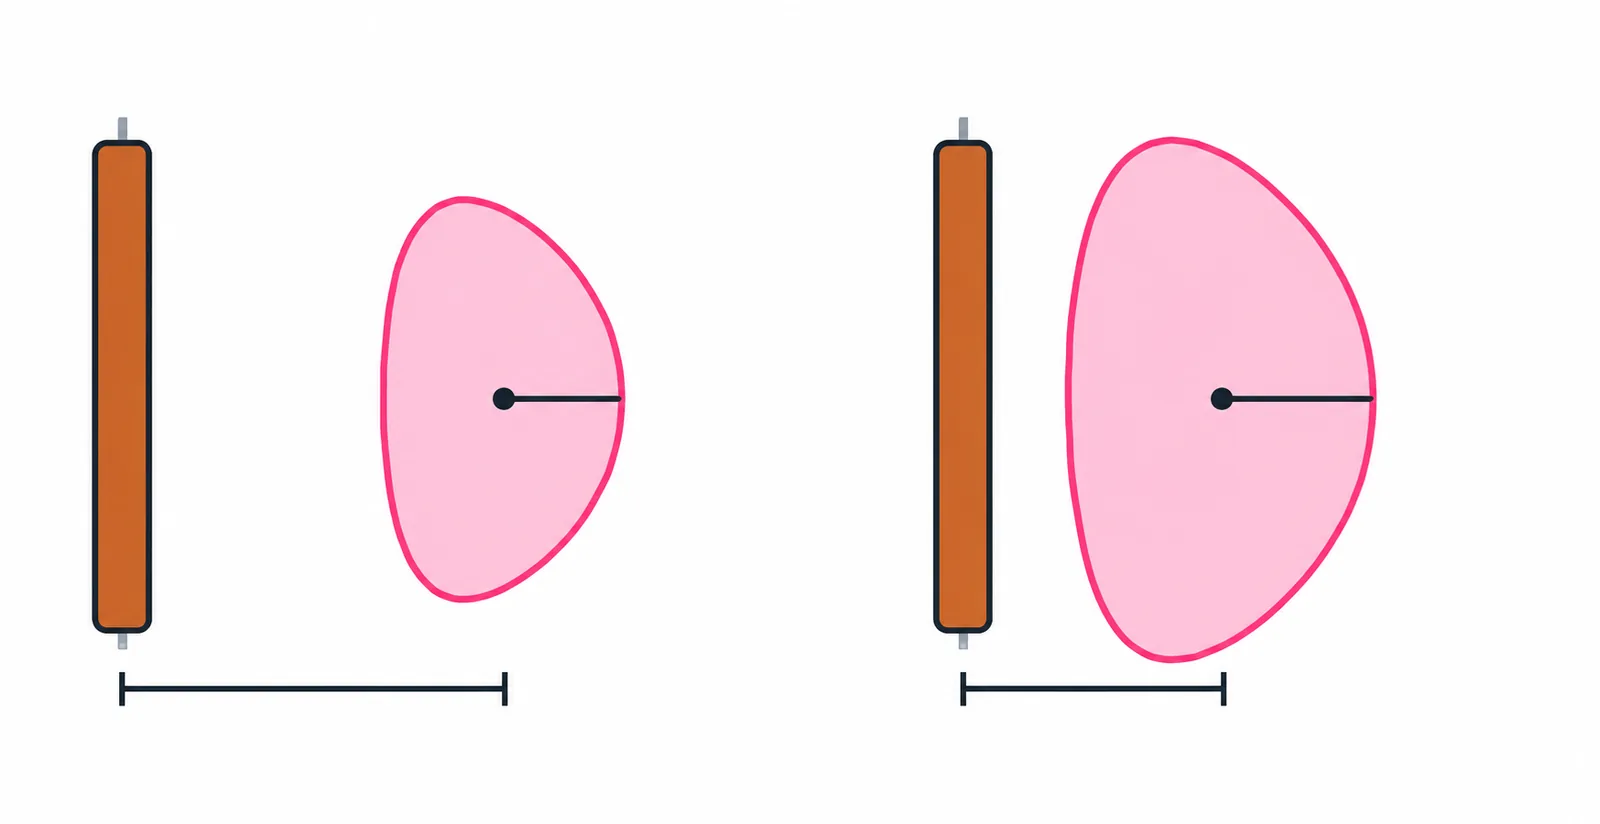
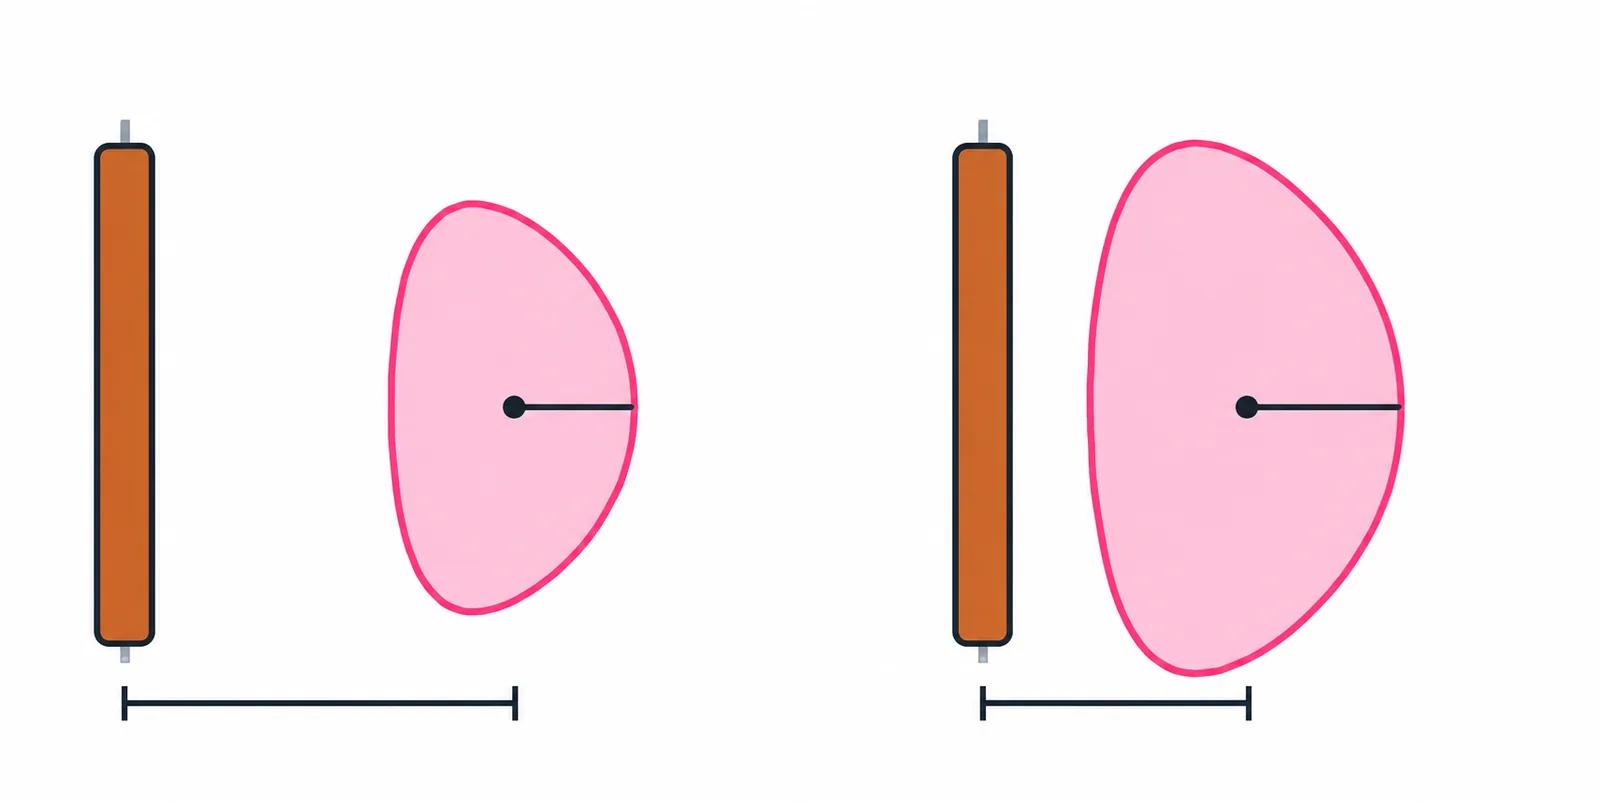
FY14: aspect-kuva rajattu viewBoxiin (pelkkää taustaa, check_layout svg-image), ASETTELU, unit.md, ennen/jälkeen
Claude-Session: https://claude.ai/code/session_018S3zFyAVLfGR3PD4nmxSde

diff --git a/fysiikkalabra/docs/audits/img24-fy14/README.md b/fysiikkalabra/docs/audits/img24-fy14/README.md
@@ -11,8 +11,7 @@ Ennalleen: PAATOS.txt:n 7 "alkuperäinen pidetään" -kuvaa (`fy14-fusion-reacti
 Huomiot (PAATOS.txt, hyväksytty sellaisinaan): `fy14-atom-models/levels` (mittakaava mittaamatta), `fy14-binding-energy/ladder` (protonien plusmerkit puuttuvat),
 `fy14-confinement-concepts/icf` (vaihekehykset poistettu), `fy14-fr-cadarache/map` (beige valkoiseksi, kaupunkien nimet siirretty), `fy14-secret-fusion/pinch`, `fy14-tokamak-stellarator/toroidal` (kelojen määrä ja säteet tarkistamatta).
 
-ASETTELU.tsv:n rivin ylitys viewBoxista (14 riviä, yli 0,5 yksikköä; rajaus vain opettajan luvalla, ei tehty; 1 yksikkö ≈ 1 px 600 px leveällä kuvalla), suurin ensin:
-- `fy14-confinement-concepts/aspect`: oikealle 12.2, alas 15.1
+ASETTELU.tsv:n rivin ylitys viewBoxista (13 riviä, yli 0,5 yksikköä; rajaus vain opettajan luvalla, ei tehty; 1 yksikkö ≈ 1 px 600 px leveällä kuvalla), suurin ensin:
 - `fy14-photoelectric/energy`: alas 9.0
 - `fy14-confinement-concepts/pinch`: alas 7.4
 - `fy14-secret-fusion/neutrons`: ylös 2.5, oikealle 1.2, alas 6.3
@@ -27,3 +26,5 @@ ASETTELU.tsv:n rivin ylitys viewBoxista (14 riviä, yli 0,5 yksikköä; rajaus v
 - `fy14-atom-models/levels`: alas 2.5
 - `fy14-fr-cadarache/map`: ylös 1.5
 Leikkautuva kaista on joka rivillä pelkkää taustaa (ei-taustapikseleitä 0, taustaksi kuvan kulmapikseli ±24).
+
+`fy14-confinement-concepts/aspect`: koordinaattorin päätöksellä (check_layout `svg-image` kaatui leveyksillä 640–1920 px, ylitys oikealle 12,2 ja alas 15,1 yksikköä) WebP rajattu viewBoxin kokoiseksi (600 × 300 yksikköä; uudelleenkoodaus paketin alkuperäisestä PNG:stä, laatu 82, pudotetut kaistat pelkkää taustaa: ei-taustapikseleitä 0) ja rivin laatikoksi (0, 0, 600, 300) samalla mittakaavalla; piirros näkyy täsmälleen samana. `check_layout` ok kaikilla 8 leveydellä. Kuvan tavut muuttuivat, joten sen hyväksyntä on kirjattava uudelleen (`approve-figures`, carry) vasta kun opettaja on hyväksynnyt rajatun kuvan; ennen/jälkeen-kuva `fy14-confinement-concepts_aspect_en_*.webp` päivitetty.

diff --git a/fysiikkalabra/content/en/units/fy14-confinement-concepts/unit.md b/fysiikkalabra/content/en/units/fy14-confinement-concepts/unit.md
@@ -72,7 +72,7 @@ What it does *not* mean: making the $2.05\ \text{MJ}$ laser pulse took about $30
 A tokamak is a ring of plasma, and its **aspect ratio** is the major radius $R$ divided by the minor radius $a$. ITER has $R : a = 6.2\ \text{m} : 2.0\ \text{m} \approx 3$. A **spherical tokamak** has an aspect ratio below 2, which makes it look like a cored apple rather than a doughnut.
 
 <svg data-fig="aspect" viewBox="0 0 600 300" role="img" aria-label="Two cross-sections side by side, each showing the central column on the left and the D-shaped plasma on the right. Left, conventional tokamak: the plasma&#x27;s centre is far from the machine&#x27;s axis, major radius R about three times the minor radius a, so the ring is like a doughnut. Right, spherical tokamak: the plasma&#x27;s centre is close to the axis, R less than twice a, so the ring is like a cored apple, with a narrow central column." style="max-width:100%;font-size:24px">
-  <image href="pics/fy14/fy14-confinement-concepts-aspect.webp" x="0" y="0" width="612.2" height="315.1" preserveAspectRatio="none"/>
+  <image href="pics/fy14/fy14-confinement-concepts-aspect.webp" x="0" y="0" width="600" height="300" preserveAspectRatio="none"/>
   <foreignObject x="105" y="269.5" width="20" height="29" overflow="visible"><div xmlns="http://www.w3.org/1999/xhtml" class="fig-tex" style="display:flex;align-items:center;justify-content:center;height:100%;font-size:24px">$R$</div></foreignObject>
   <foreignObject x="203" y="113.5" width="20" height="29" overflow="visible"><div xmlns="http://www.w3.org/1999/xhtml" class="fig-tex" style="display:flex;align-items:center;justify-content:center;height:100%;font-size:24px">$a$</div></foreignObject>
   <foreignObject x="59" y="7.5" width="158" height="29" overflow="visible"><div xmlns="http://www.w3.org/1999/xhtml" class="fig-tex" style="display:flex;align-items:center;justify-content:center;height:100%;font-size:24px">$\text{conventional}$</div></foreignObject>
